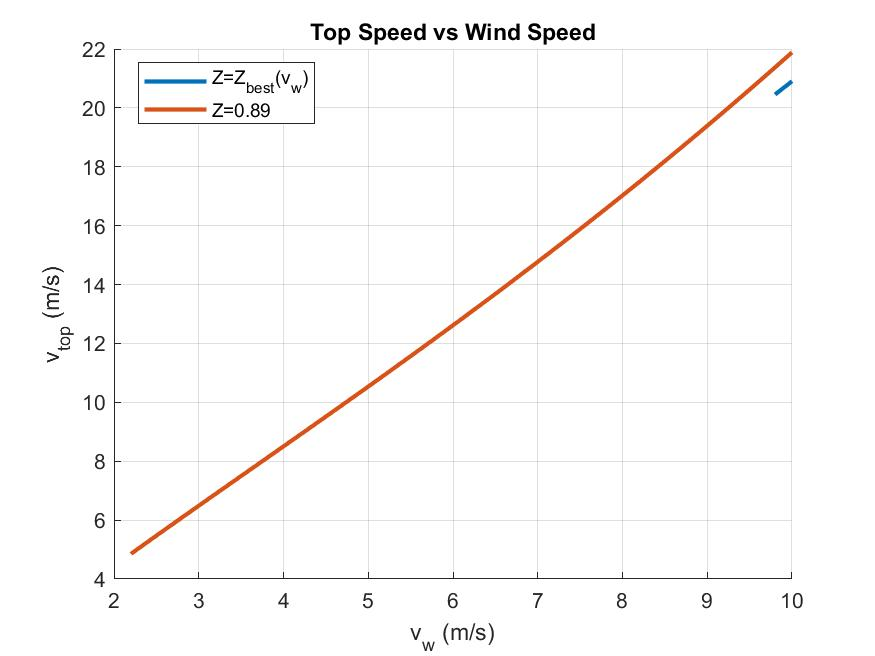
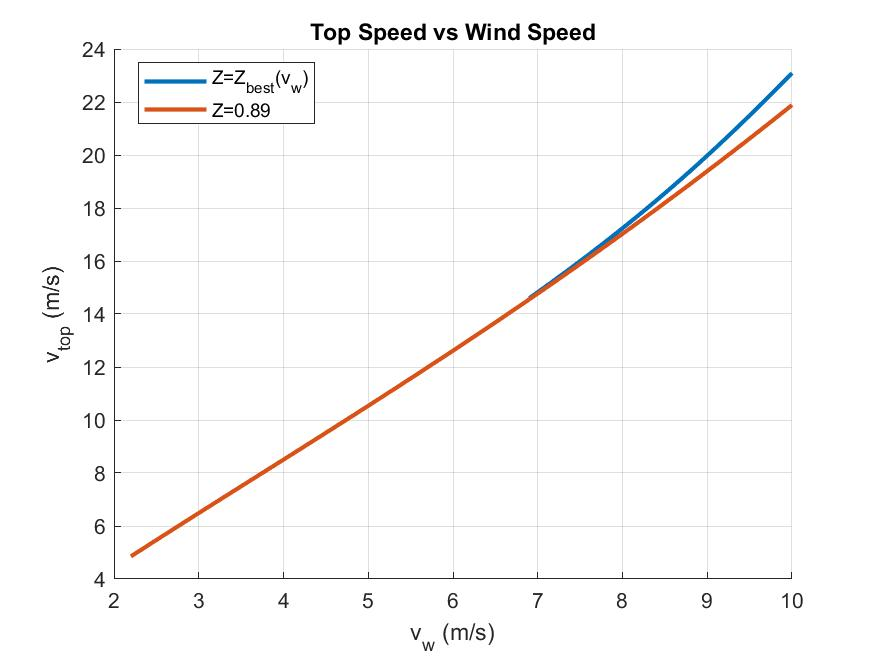
Fixed Wind Speed Search Transmission Ratio Range

diff --git a/Main.m b/Main.m
@@ -20,8 +20,14 @@ fprintf(fileID, fan.RootMeanSquare());
 
 F_d = DragForce(fileID);
 
+Z_min = 0.1;
+Z_max = 5;
+Z_step = 0.01;
+Z_range = Z_min:Z_step:Z_max;
+fprintf(fileID, 'Z_min=%.2f Z_max=%.2f Z_step=%.2f\n', Z_min, Z_max, Z_step);
+
 air = Air(5);
-[v_top, Z_best] = SearchTransmissionRatios(air, fan, 0.1:0.01:5, F_d);
+[v_top, Z_best] = SearchTransmissionRatios(air, fan, Z_range, F_d);
 vehicle = Vehicle(air, fan, Z_best, F_d);
 v = Simulate(vehicle, 25);
 [v_min, v_max] = vehicle.SpeedBoundary();
@@ -29,7 +35,7 @@ fprintf(fileID, 'Z=%.2f v_top=%.1fm/s B=[%.1f, %.1f]m/s\n', Z_best, v_top, v_min
 
 VelocityRelations(vehicle);
 
-SearchWindSpeeds(fan, 1:0.1:10, Z_best, 1, 5, F_d);
+SearchWindSpeeds(fan, 1:0.1:10, Z_best, Z_min, Z_max, F_d);
 
 toc();
 
